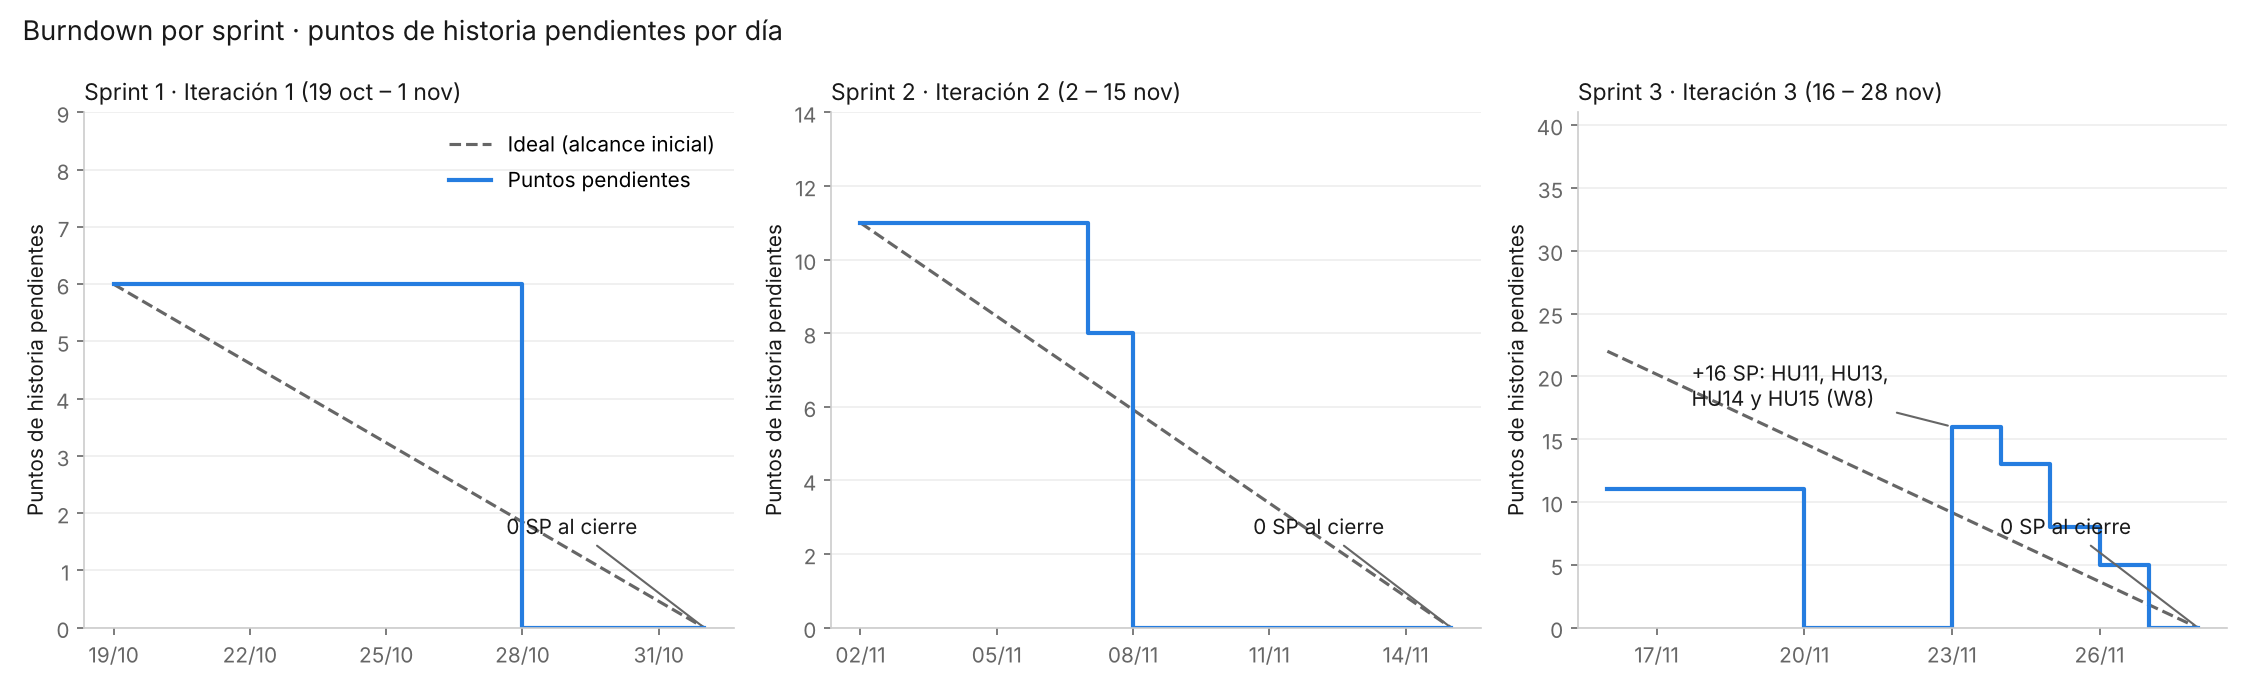
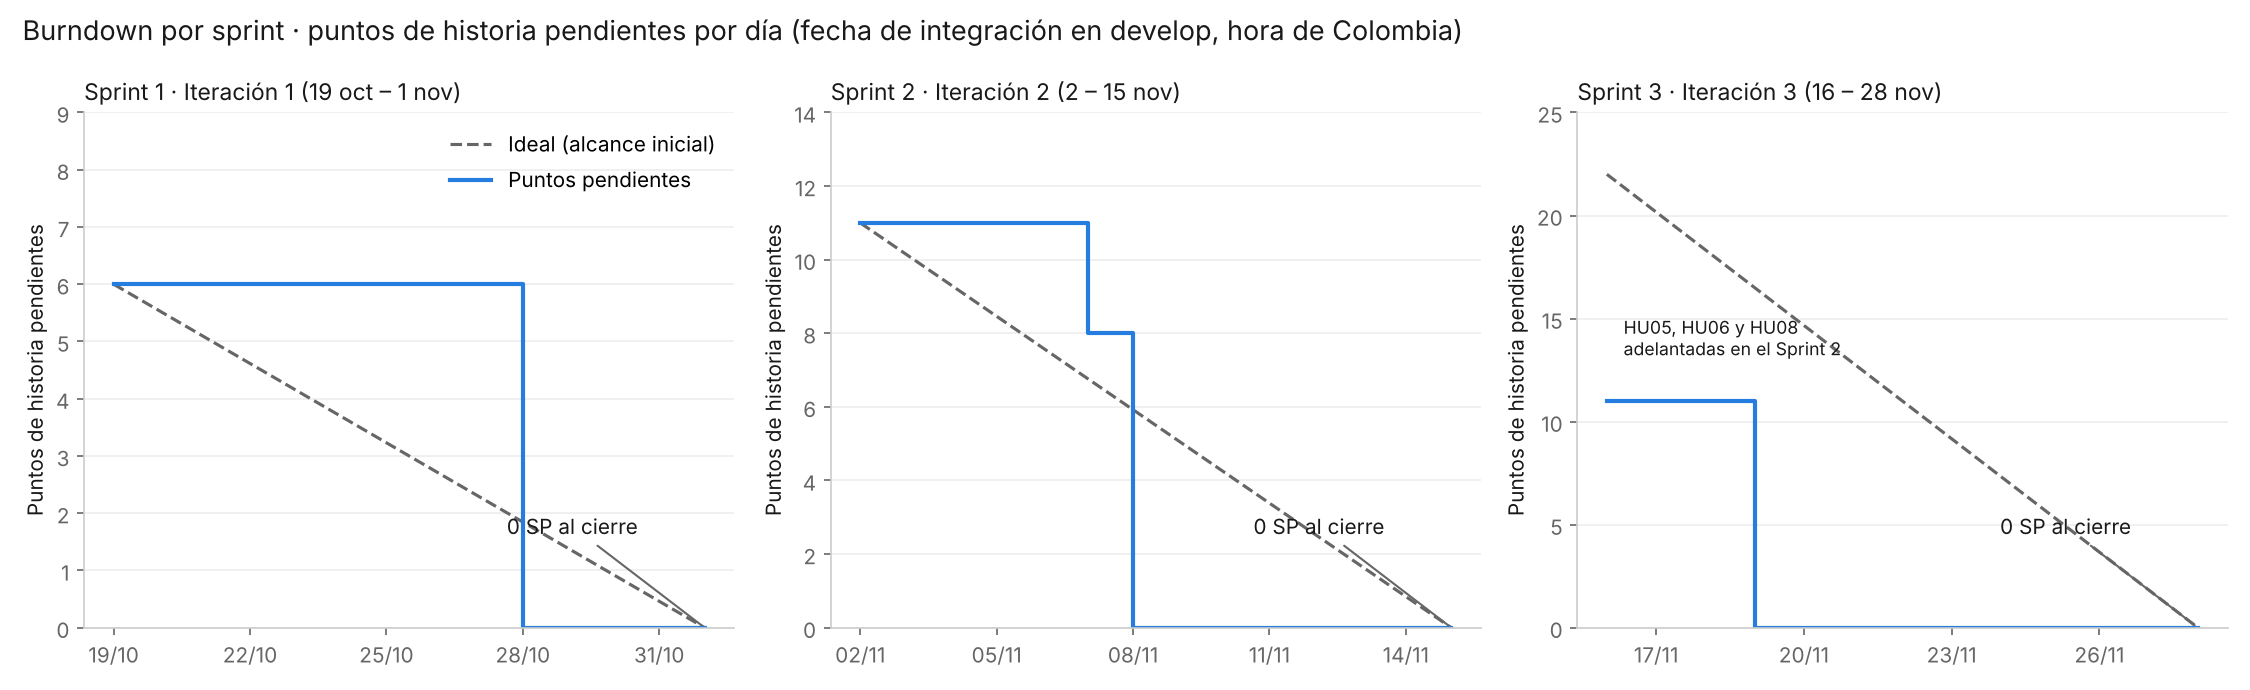
W8: burndown con el alcance base de cada sprint

diff --git a/docs/graficas/fuentes/velocidad.py b/docs/graficas/fuentes/velocidad.py
@@ -15,7 +15,7 @@ def remaining(dates, scope_ev, done_ev):
 sprints={
  'Sprint 1 · Iteración 1 (19 oct – 1 nov)':(dt.date(2026,10,19),dt.date(2026,11,1),[(dt.date(2026,10,19),6)],[(dt.date(2026,10,28),3),(dt.date(2026,10,28),3)]),
  'Sprint 2 · Iteración 2 (2 – 15 nov)':(dt.date(2026,11,2),dt.date(2026,11,15),[(dt.date(2026,11,2),11)],[(dt.date(2026,11,7),3),(dt.date(2026,11,8),3),(dt.date(2026,11,8),5)]),
- 'Sprint 3 · Iteración 3 (16 – 28 nov)':(D(16),D(28),[(D(16),22),(D(23),16)],[(D(16),11),(D(20),11),(D(24),3),(D(25),5),(D(26),3),(D(27),5)]),
+ 'Sprint 3 · Iteración 3 (16 – 28 nov)':(D(16),D(28),[(D(16),22)],[(D(16),11),(D(19),11)]),
 }
 fig,axs=plt.subplots(1,3,figsize=(15,4.6),dpi=150)
 for ax,(title,(a,b,sc,dn)) in zip(axs,sprints.items()):
@@ -29,20 +29,7 @@ for ax,(title,(a,b,sc,dn)) in zip(axs,sprints.items()):
     ax.grid(axis='y',color='#eeeeee'); ax.set_ylabel('Puntos de historia pendientes')
     ax.annotate(f'{rem[-1]} SP al cierre',(ds[-1],rem[-1]),xytext=(-95,45),textcoords='offset points',color=T2,arrowprops=dict(arrowstyle='-',color=G))
     if 'Sprint 3' in title:
-        ax.annotate('+16 SP: HU11, HU13,\nHU14 y HU15 (W8)',(D(23),rem[ds.index(D(23))]),xytext=(-125,10),textcoords='offset points',color=T2,arrowprops=dict(arrowstyle='-',color=G))
+        ax.annotate('HU05, HU06 y HU08\nadelantadas en el Sprint 2',(D(16),11),xytext=(8,22),textcoords='offset points',fontsize=8.5,color=T2)
 axs[0].legend(frameon=False,loc='upper right')
-fig.suptitle('Burndown por sprint · puntos de historia pendientes por día',x=0.01,ha='left',fontsize=13,color=T2)
+fig.suptitle('Burndown por sprint · puntos de historia pendientes por día (fecha de integración en develop, hora de Colombia)',x=0.01,ha='left',fontsize=13,color=T2)
 fig.tight_layout(); fig.savefig('burndown-sprints.png',facecolor='white')
-# burn-up sprint 3
-a,b,sc,dn=sprints['Sprint 3 · Iteración 3 (16 – 28 nov)']; ds=days(a,b); s,d=remaining(ds,sc,dn)
-fig,ax=plt.subplots(figsize=(9,4.8),dpi=150)
-ax.step(ds,s,where='post',color=O,lw=2,label='Alcance comprometido')
-ax.step(ds,d,where='post',color=B,lw=2,label='Puntos aceptados (integrados en develop)')
-ax.plot(ds,[d[0]+(s[-1]-d[0])*i/(len(ds)-1) for i in range(len(ds))],color=G,ls='--',lw=1.5,label='Ritmo necesario')
-for t,lab in [(D(16),'HU05, HU06, HU08\n(adelantos del Sprint 2)'),(D(20),'HU09, HU10, HU12'),(D(24),'HU15'),(D(25),'HU14'),(D(26),'HU13'),(D(27),'HU11')]:
-    i=ds.index(t); ax.annotate(lab,(t,d[i]),xytext=(4,-26 if t!=D(16) else 8),textcoords='offset points',fontsize=8.5,color=T2)
-ax.annotate('W8: +16 SP\n(HU11, HU13, HU14, HU15)',(D(23),30),xytext=(-150,0),textcoords='offset points',fontsize=8.5,color=T2,arrowprops=dict(arrowstyle='-',color=G))
-ax.set_ylim(0,42); ax.set_ylabel('Puntos de historia'); ax.grid(axis='y',color='#eeeeee')
-ax.xaxis.set_major_formatter(md.DateFormatter('%d/%m')); ax.xaxis.set_major_locator(md.DayLocator(interval=2))
-ax.set_title('Burnup del Sprint 3 · 38 de 38 puntos aceptados el 27 de noviembre',loc='left',color=T2)
-ax.legend(frameon=False,loc='lower right'); fig.tight_layout(); fig.savefig('burnup-sprint-3.png',facecolor='white')

diff --git a/docs/resultados-pruebas-w8.md b/docs/resultados-pruebas-w8.md
@@ -72,9 +72,8 @@ Reporte completo y análisis en la wiki: [Sprint 3 ‐ Reporte de perfilamiento]
 ## 6. Velocidad del equipo
 
 ![Burndown por sprint](graficas/burndown-sprints.png)
-![Burnup del Sprint 3](graficas/burnup-sprint-3.png)
 
-Fuentes: fechas de integración de cada historia en `develop` (PR) y puntos del [backlog](https://github.com/Osaron/vinilos-android/wiki/Backlog-de-producto). Script: [`graficas/fuentes/velocidad.py`](graficas/fuentes/velocidad.py).
+Compromiso base de cada sprint: 6, 11 y 22 SP, todos aceptados. Fuentes: fecha de integración de cada historia en `develop` (PR, hora de Colombia) y puntos del [backlog](https://github.com/Osaron/vinilos-android/wiki/Backlog-de-producto). El burnup de la Iteración 3 está en la [wiki](https://github.com/Osaron/vinilos-android/wiki/Estimaci%C3%B3n-y-velocidad-de-la-Iteraci%C3%B3n-3). Script: [`graficas/fuentes/velocidad.py`](graficas/fuentes/velocidad.py).
 
 ## 7. Cómo repetir
 
